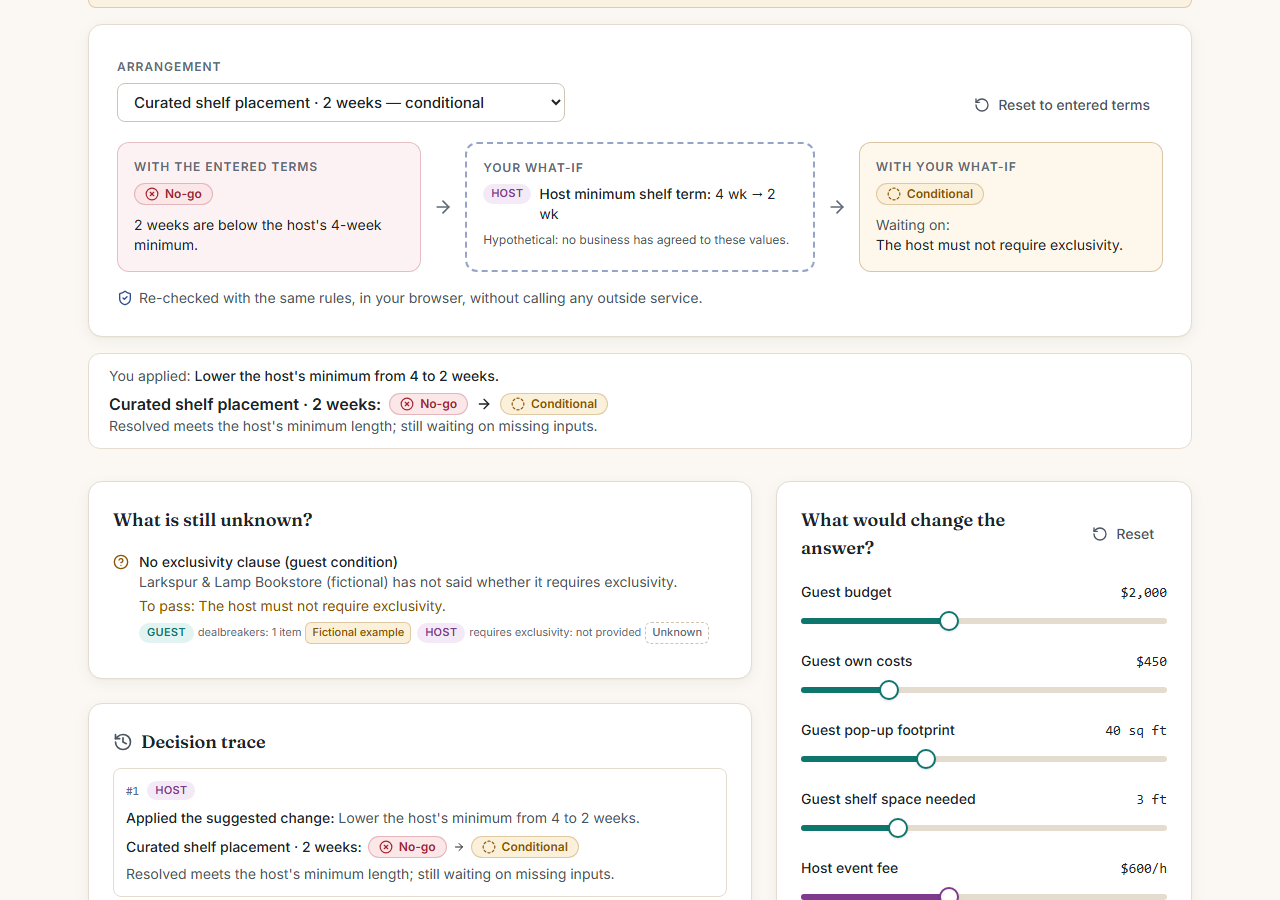
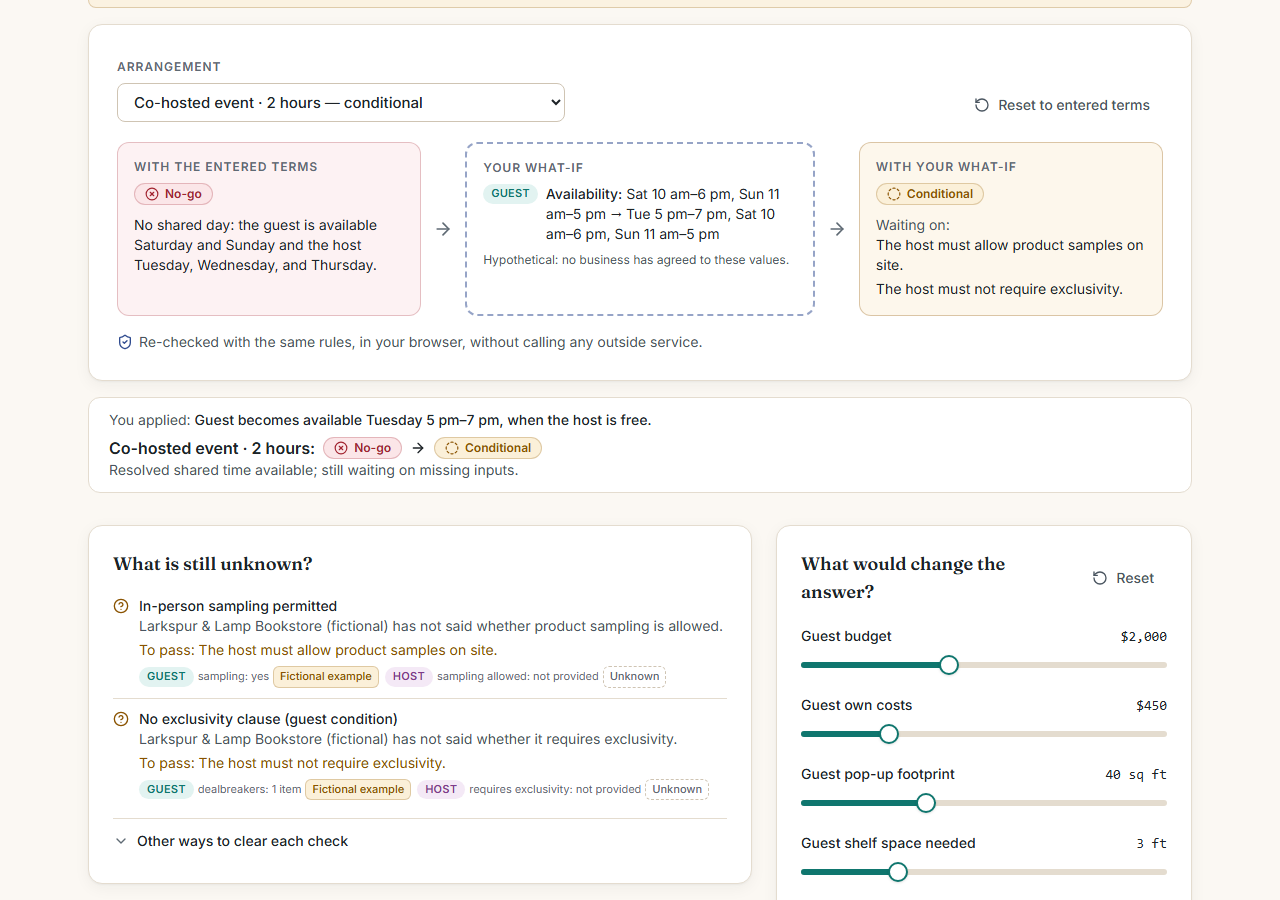
fix(frontier): feature a change that opens a format with nothing working yet
The closest-to-agreement panel and the Reversal default took the engine's first
verified reversal. In the fictional example that lowered the shelf minimum to two
weeks, which only lands where the four-week shelf already is. We now prefer the
first verified reversal whose format has no feasible or conditional variant and
fall back to the first one otherwise. The engine's results and ranking are
unchanged.

Also removes the unused featuredOption helper and refreshes the frontier, ideas,
and reversal screenshots.

diff --git a/src/shared/domain/headline.ts b/src/shared/domain/headline.ts
@@ -22,21 +22,16 @@ export function blockerSummary(e: ScenarioEvaluation, limit = 2): BlockerSummary
 }
 
 /**
- * The arrangement a first conversation would usually start from: a co-hosted event, the format a
- * cultural theme suits best, choosing the length that fails the fewest checks. Used only to explain
- * results, never to rank them.
+ * The blocked option with the cheapest verified change, which the engine already ranks first. We prefer
+ * one whose format has nothing feasible or conditional yet: unblocking a variant of a format that already
+ * works only lands where that format already is, so it opens no new ground.
  */
-export function featuredOption(e: ScenarioEvaluation): ArrangementOption | null {
-  const fails = (o: ArrangementOption) => o.constraints.filter((c) => c.status === "fail").length;
-  const events = e.options.filter((o) => o.format === "cohosted_event").sort((a, b) => fails(a) - fails(b) || a.variant - b.variant);
-  return events.find((o) => o.status === "no_go") ?? events[0] ?? e.options[0] ?? null;
-}
-
-/** The blocked option with the cheapest verified change, which the engine already ranks first. */
 export function closestToWorking(e: ScenarioEvaluation): { option: ArrangementOption; changes: string[]; statusAfter: string } | null {
-  for (const r of e.reversals) {
+  const open = new Set(e.options.filter((o) => o.status !== "no_go").map((o) => o.format));
+  const verified = e.reversals.flatMap((r) => {
     const option = e.options.find((o) => o.id === r.optionId);
-    if (option && r.minimalChange?.verified) return { option, changes: r.minimalChange.changes.map((c) => c.description), statusAfter: r.minimalChange.statusAfter };
-  }
-  return null;
+    return option && r.minimalChange?.verified ? [{ option, minimal: r.minimalChange }] : [];
+  });
+  const pick = verified.find((v) => !open.has(v.option.format)) ?? verified[0];
+  return pick ? { option: pick.option, changes: pick.minimal.changes.map((c) => c.description), statusAfter: pick.minimal.statusAfter } : null;
 }

diff --git a/tests/unit/headline.test.ts b/tests/unit/headline.test.ts
@@ -1,0 +1,30 @@
+import { describe, expect, it } from "vitest";
+import { evaluateScenario } from "../../src/shared/domain";
+import { closestToWorking } from "../../src/shared/domain/headline";
+import { EXAMPLE_SCENARIO } from "../../src/shared/fixtures/example-scenario";
+import { scenario } from "../fixtures/builders";
+
+describe("closestToWorking", () => {
+  it("features a format that has nothing working yet over another variant of one that does", () => {
+    const e = evaluateScenario(EXAMPLE_SCENARIO);
+    // The engine still ranks the 2-week shelf first; it would only land where the 4-week shelf already is.
+    expect(e.reversals[0]?.optionId).toBe("shelf:2");
+    expect(e.options.find((o) => o.id === "shelf:4")?.status).toBe("conditional");
+    const closest = closestToWorking(e);
+    expect(closest?.option.id).toBe("cohosted_event:2");
+    expect(closest?.changes).toEqual(["Guest becomes available Tuesday 5 pm–7 pm, when the host is free."]);
+    expect(closest?.statusAfter).toBe("conditional");
+  });
+
+  it("falls back to the engine's first verified reversal when every blocked format already works", () => {
+    const e = evaluateScenario(scenario({}, { shelfMinWeeks: 4 }));
+    expect(e.options.find((o) => o.id === "shelf:4")?.status).toBe("feasible");
+    const closest = closestToWorking(e);
+    expect(closest?.option.id).toBe("shelf:2");
+    expect(closest?.changes).toEqual(["Lower the host's minimum from 4 to 2 weeks."]);
+  });
+
+  it("returns nothing when no option is blocked", () => {
+    expect(closestToWorking(evaluateScenario(scenario()))).toBeNull();
+  });
+});

diff --git a/tests/e2e/journey.spec.ts b/tests/e2e/journey.spec.ts
@@ -51,7 +51,8 @@ test("complete journey: discovery, frontier, reversal, and brief", async ({ page
   await expect(counts.getByRole("button", { name: /^7 no-go/ })).toBeVisible();
   const closest = page.locator('[aria-labelledby="closest-title"]');
   await expect(closest.getByText("Closest to agreement")).toBeVisible();
-  await expect(closest.getByText("Not agreed: the host has not confirmed this.")).toBeVisible();
+  await expect(closest.getByRole("heading", { name: "Co-hosted event · 2 hours" })).toBeVisible();
+  await expect(closest.getByText("Not agreed: the guest has not confirmed this.")).toBeVisible();
   await expect(closest.getByRole("button", { name: /Explore the change/ })).toBeVisible();
 
   // Every arrangement stays available: a status filter, a compact list, and one focused detail.
